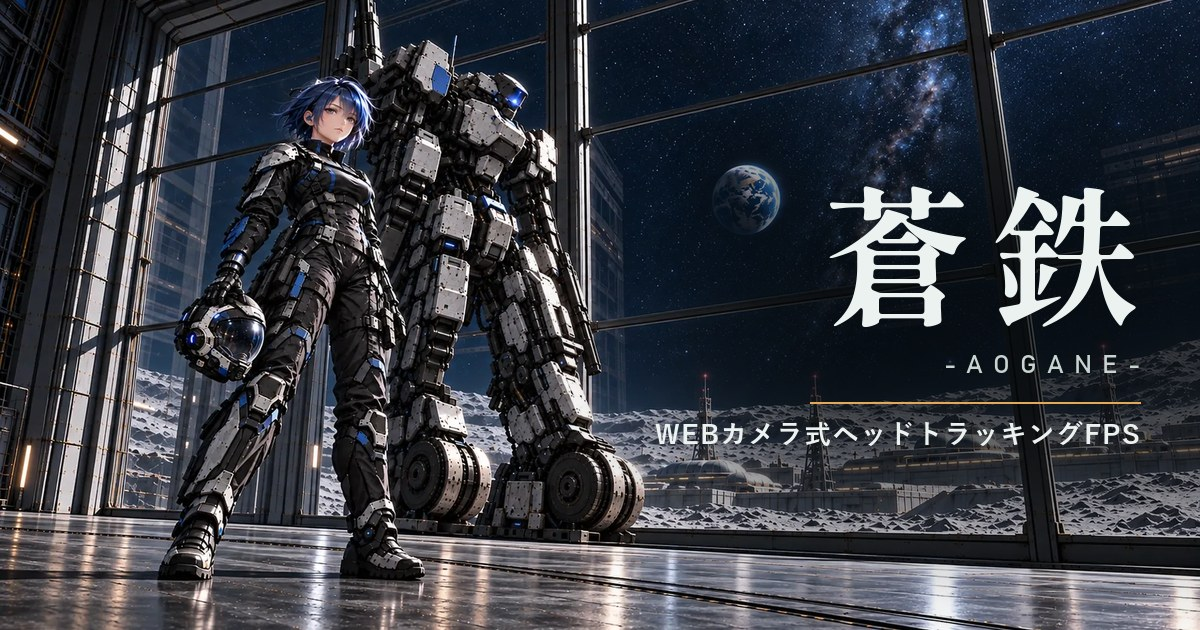
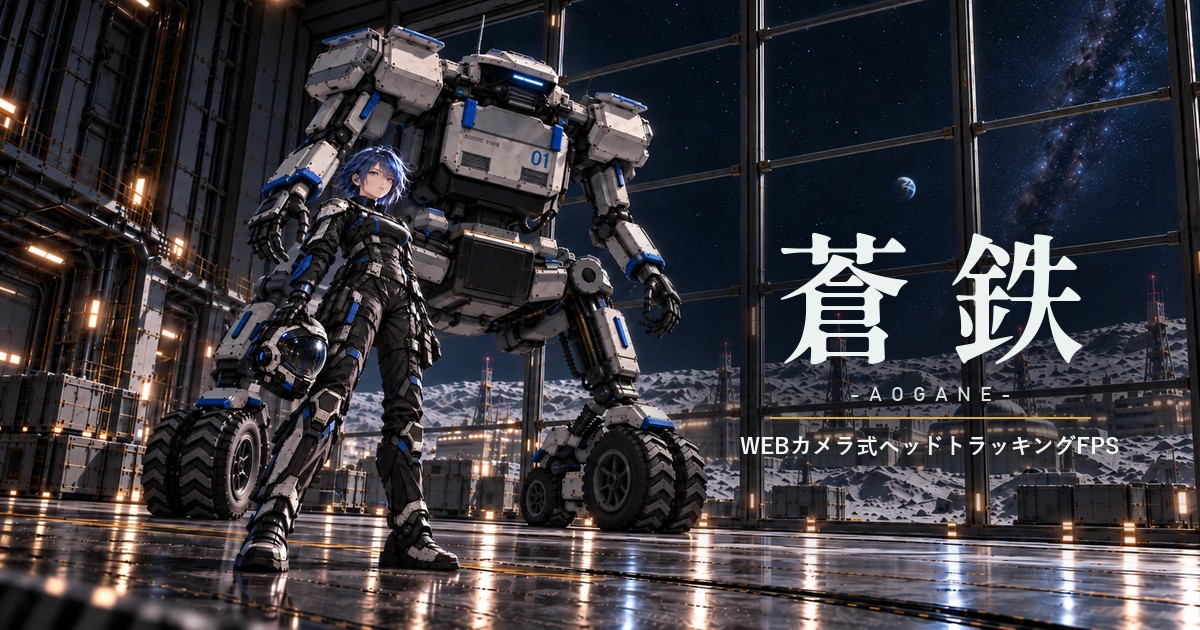
Give AOGANE's intro page the new key art, poster and OG image (the frame as it is now)

diff --git a/app/aogane/page.tsx b/app/aogane/page.tsx
@@ -115,8 +115,8 @@ export default function AoganePage() {
           <figure className="hfKey">
             {/* eslint-disable-next-line @next/next/no-img-element -- two fixed WebP sizes, served as is */}
             <img
-              src="/aogane/key-900.webp?v=2"
-              srcSet="/aogane/key-560.webp?v=2 560w, /aogane/key-900.webp?v=2 900w"
+              src="/aogane/key-900.webp?v=3"
+              srcSet="/aogane/key-560.webp?v=3 560w, /aogane/key-900.webp?v=3 900w"
               sizes="(max-width: 860px) 100vw, 420px"
               width={900}
               height={1350}
